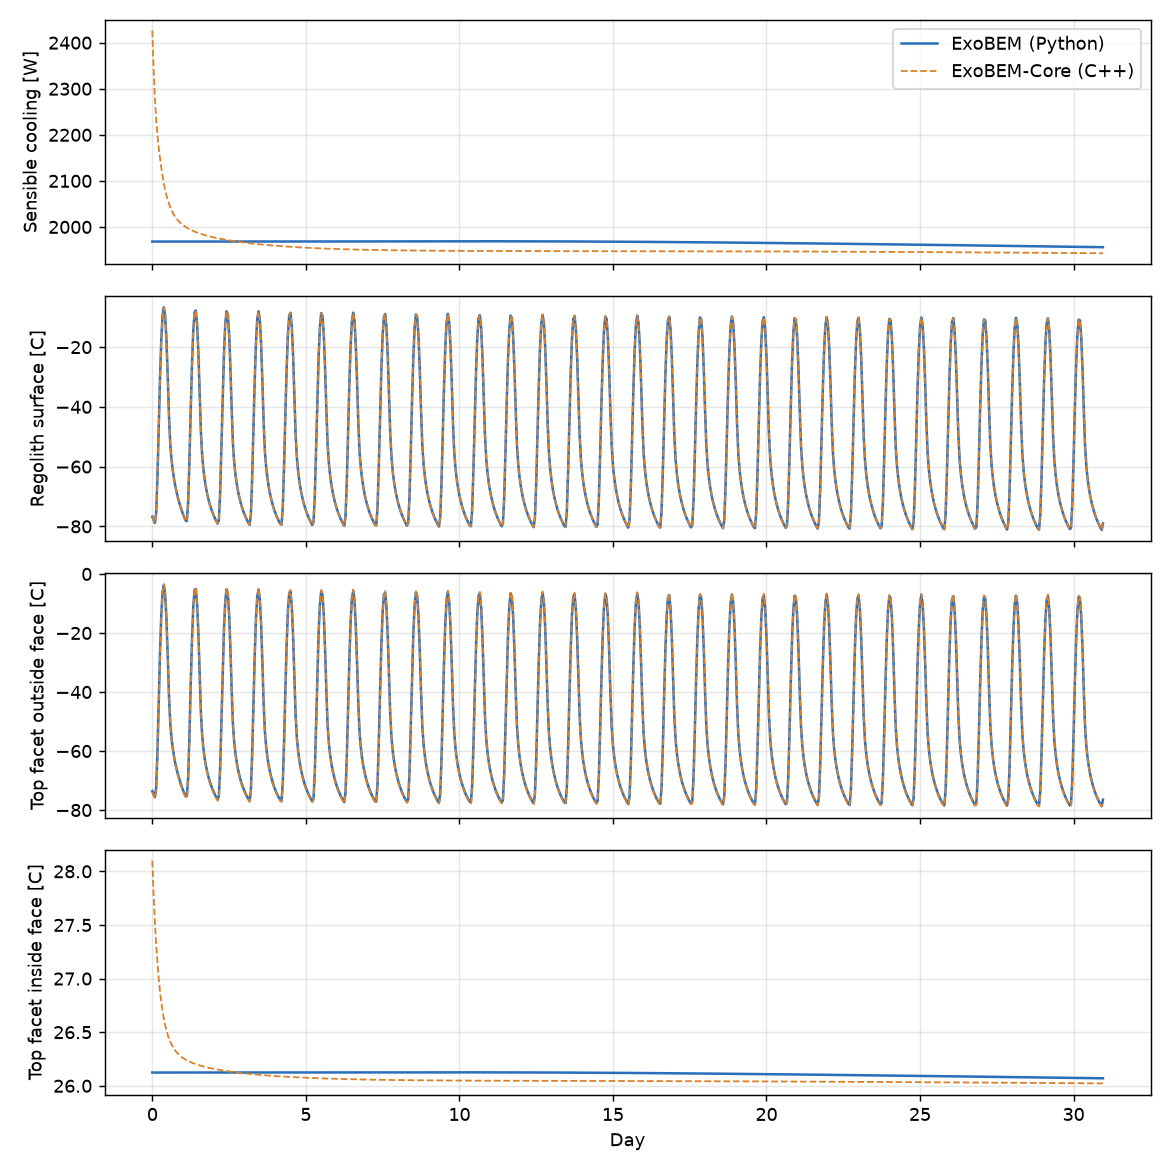
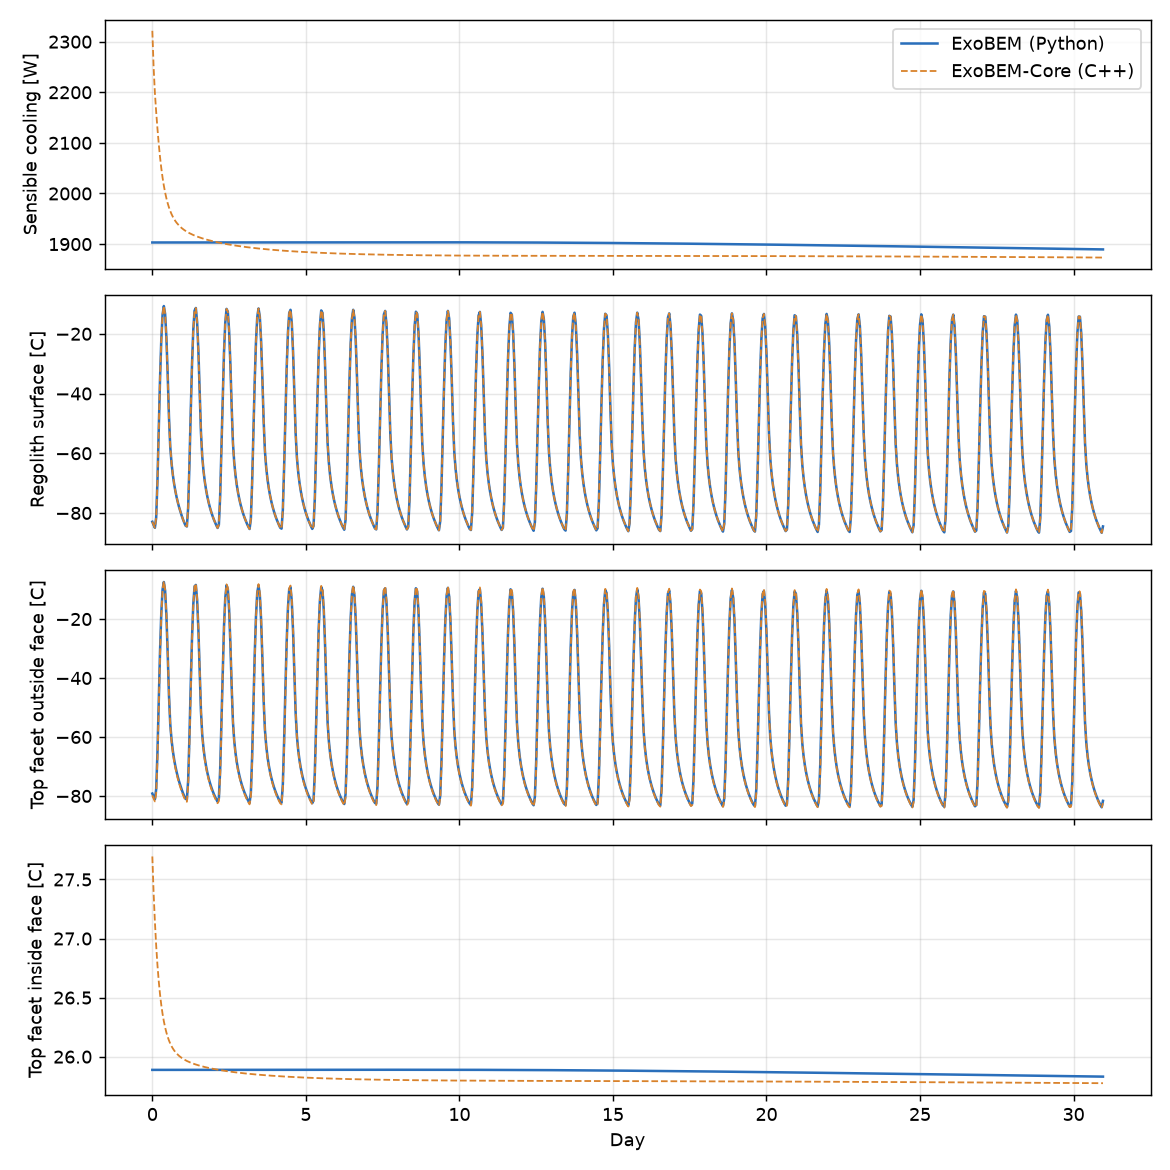
M2c: recalibrate the Martian downwelling long-wave model (as in ExoBEM)
Sky emissivity min(0.12 + 0.10 tau, 0.6) and dust re-emission 0.20 (was
0.08 + 0.125 tau and 0.45). The old values made a global dust storm warm the
sol-mean air temperature by ~18 K; Curiosity saw ~4 K of cooling in 2018.
Refitted in ExoBEM (studies/calibrate_mars_storm_ir.py) to the MEDA/TIRS
clear-season mean (~30 W/m2) and the 2018 storm response (-4.6 K).

Verification: Earth regression 14/14 identical, 2379/2379 unit tests pass;
Mars cooling vs ExoBEM -0.88 % (generator) / -1.10 % (PWF), environment
identical with the PWF file. VERIFICATION.md and the Mars case updated.

diff --git a/planetary/tools/apply_hooks_m2c.py b/planetary/tools/apply_hooks_m2c.py
@@ -1,0 +1,38 @@
+"""ExoBEM-Core M2c patch set: Mars downwelling long-wave recalibrated (kept identical in both codes).
+
+Run from the repository root:  python planetary/tools/apply_hooks_m2c.py   (idempotent)
+
+The Mars sky emission is L = eps_sky(tau) sigma T_air^4 + f_re <G_toa,h - G_h>_sol with
+eps_sky = min(e0 + e1 tau, 0.6).  The previous values (e0 0.08, e1 0.125, f_re 0.45) made a global dust storm
+warm the sol-mean air temperature by about 18 K, whereas Curiosity saw it fall by about 4 K in 2018
+(Viudez-Moreiras et al. 2019; Guzewich et al. 2019).  ExoBEM's studies/calibrate_mars_storm_ir.py refitted the
+three parameters to the MEDA/TIRS clear-season mean (~30 W/m2) and that storm response: e0 0.12, e1 0.10,
+f_re 0.20 give 30.4 W/m2 and -4.6 K.  Earth runs are unaffected (Mars-only code path).
+"""
+from pathlib import Path
+
+ROOT = Path(__file__).resolve().parents[2]
+C = ROOT / "src" / "EnergyPlus" / "PlanetaryBody.cc"
+
+
+def edit(path, old, new, marker):
+    p = Path(path)
+    s = p.read_bytes().decode("utf-8")
+    crlf = "\r\n" in s
+    s = s.replace("\r\n", "\n")
+    if marker in s:
+        return
+    assert s.count(old) == 1, (p.name, s.count(old), old[:120])
+    s = s.replace(old, new)
+    if crlf:
+        s = s.replace("\n", "\r\n")
+    p.write_bytes(s.encode("utf-8"))
+
+
+edit(C,
+     "            constexpr Real64 kappa = 0.6, lagH = 0.5, e0 = 0.08, e1 = 0.125, fRe = 0.45;\n",
+     "            // sky emissivity e0 + e1*tau (cap 0.6) and dust re-emission fRe, calibrated to the MEDA/TIRS clear-season\n"
+     "            // mean (~30 W/m2) and the 2018 storm (sol-mean air -4 K): ExoBEM studies/calibrate_mars_storm_ir.py\n"
+     "            constexpr Real64 kappa = 0.6, lagH = 0.5, e0 = 0.12, e1 = 0.10, fRe = 0.20;\n",
+     "e0 = 0.12, e1 = 0.10, fRe = 0.20")
+print("M2c applied")

diff --git a/src/EnergyPlus/PlanetaryBody.cc b/src/EnergyPlus/PlanetaryBody.cc
@@ -1218,7 +1218,9 @@ namespace {
         } else {
             // Mars
             constexpr Real64 w0 = 0.885, gAsym = 0.74, Rh = 3390.0 / 11.0;
-            constexpr Real64 kappa = 0.6, lagH = 0.5, e0 = 0.08, e1 = 0.125, fRe = 0.45;
+            // sky emissivity e0 + e1*tau (cap 0.6) and dust re-emission fRe, calibrated to the MEDA/TIRS clear-season
+            // mean (~30 W/m2) and the 2018 storm (sol-mean air -4 K): ExoBEM studies/calibrate_mars_storm_ir.py
+            constexpr Real64 kappa = 0.6, lagH = 0.5, e0 = 0.12, e1 = 0.10, fRe = 0.20;
             RegolithColumn col = RegolithColumn::mars(p.regolithThermalInertia, p.regolithAlbedo, p.regolithEmissivity);
             col.build();
             std::vector<Real64> ghi(n), gTop(n), epsSky(n);

diff --git a/planetary/VERIFICATION.md b/planetary/VERIFICATION.md
@@ -1,7 +1,7 @@
 # ExoBEM-Core verification (M2)
 
 All runs: Windows 11, MSVC 14.44 (VS 2022 Build Tools), Release build of v26.2.0 + ExoBEM-Core changes
-(patch sets m1, m1b, m1c, m2, m2b in `planetary/tools/`).
+(patch sets m1, m1b, m1c, m2, m2b, m2c in `planetary/tools/`).
 
 ## 1. Earth: identical to EnergyPlus v26.2.0
 
@@ -46,13 +46,13 @@ that ExoBEM wrote for its own run, with no EPW).
 
 | Quantity | Moon equator, 2nd lunation (720 h) | Mars Jezero, days 16–31 (384 h) |
 |---|---|---|
-| Sensible cooling, C++ generator / C++ PWF / Python (kWh) | 2305.8 / 2305.8 / 2306.0 (−0.01 %) | 748.7 / 747.2 / 753.7 (−0.66 % / −0.86 %) |
-| Hourly cooling RMSE, generator / PWF (W) | 0.3 / 0.3 | 13 / 17 |
+| Sensible cooling, C++ generator / C++ PWF / Python (kWh) | 2305.8 / 2305.8 / 2306.0 (−0.01 %) | 721.8 / 720.2 / 728.2 (−0.88 % / −1.10 %) |
+| Hourly cooling RMSE, generator / PWF (W) | 0.3 / 0.3 | 17 / 21 |
 | Regolith surface temperature RMSE, generator / PWF (K) | 0.05 / 0.000 | 0.21 / 0.000 |
-| Deep regolith temperature (C++ / Python) | −14.87 / −14.87 °C | −48.83 / −48.83 °C |
+| Deep regolith temperature (C++ / Python) | −14.87 / −14.87 °C | −50.85 / −50.84 °C |
 | Direct normal irradiance R² | 0.9999 | 0.9999 |
-| Top facet outside / inside face RMSE (K) | 0.33 / 0.002 | 0.61–0.63 / 0.05–0.06 |
-| Interior convection coefficient (C++ / Python, W/m²K) | 0.83 / 0.83 | 1.14 / 1.13 |
+| Top facet outside / inside face RMSE (K) | 0.33 / 0.002 | 0.65–0.67 / 0.06–0.07 |
+| Interior convection coefficient (C++ / Python, W/m²K) | 0.83 / 0.83 | 1.20 / 1.19 |
 
 With the PWF file the environment is identical in both programs (RMSE 0), so the remaining differences are in
 the heat-balance solution (CondFD versus ExoBEM's stretched finite volumes, start-up of the Martian regolith
@@ -96,6 +96,11 @@ expected severe errors from the planetary input validator.
 
 ## Notes
 
+* M2c recalibrated the Martian downwelling long-wave model in both codes (sky emissivity 0.12 + 0.10 τ, dust
+  re-emission 0.20, previously 0.08 + 0.125 τ and 0.45) so that a global dust storm lowers the sol-mean air
+  temperature by about 4 K, as Curiosity observed in 2018, instead of raising it by 18 K. The Mars column above is
+  from the M2c runs; the colder Martian environment raises the envelope heat flow and with it the slowly decaying
+  start-up residual of the regolith cover (−0.66 % → −0.88 % with the generator). Earth results remain identical.
 * CondFD cannot resolve the 4 mm aluminium shell (stock check thickness < √(3αΔt)); in the regolith-module input
   its heat capacity is lumped into the interior panel and its resistance (3·10⁻⁵ m²K/W) is dropped. The NASA-class
   habitat uses CTF and keeps the aluminium.
